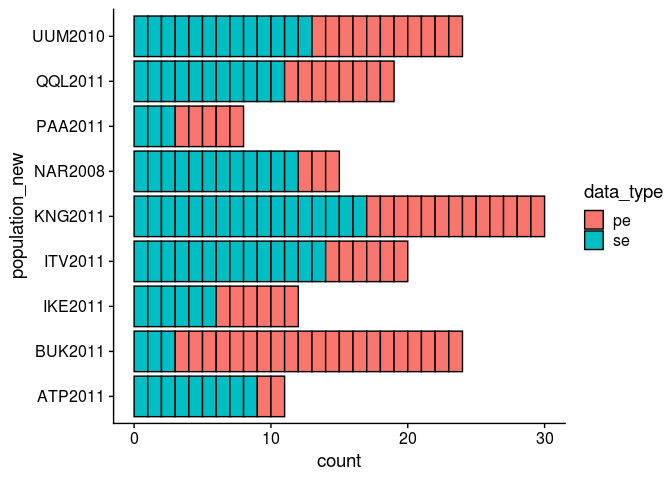
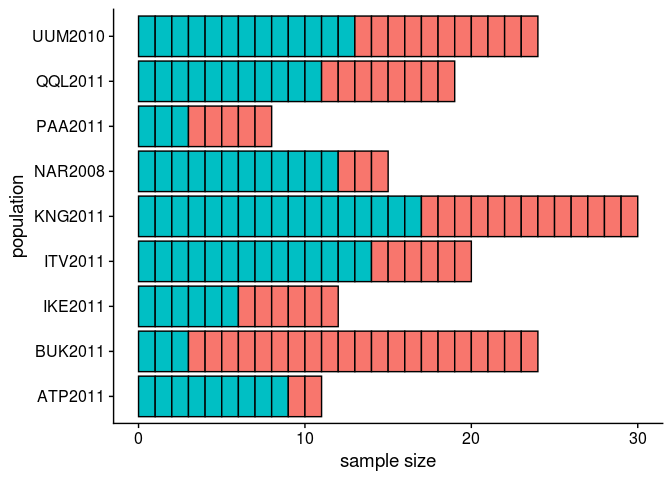
revised sample size and coverage figure

diff --git a/markdown/pipeline.md b/markdown/pipeline.md
@@ -51,12 +51,16 @@ fastq_list_pe <- filter(sample_table_unmerged, lane_number == 7)$prefix
 fastq_list_se <- filter(sample_table_unmerged, lane_number != 7)$prefix
 
 ## Sample distribution
-sample_table_merged %>%
+sample_size_plot <- sample_table_merged %>%
   mutate(sample_id_corrected=fct_reorder(sample_id_corrected, data_type)) %>%
   ggplot(aes(x=population_new, fill=data_type, group=sample_id_corrected)) +
   geom_bar(color="black") +
+  xlab("population")+
+  ylab("sample size") +
   theme_cowplot() +
-  coord_flip()
+  coord_flip() +
+  theme(legend.position = "none")
+sample_size_plot
 ```
 
 ![](pipeline_files/figure-gfm/unnamed-chunk-2-1.png)<!-- -->
@@ -65,14 +69,18 @@ sample_table_merged %>%
 ## Number of bases
 base_count <- read_tsv("../sample_lists/count_merged_old.tsv") %>%
   dplyr::select(sample_id_corrected, final_mapped_bases)
-sample_table_merged %>%
+coverage_plot <- sample_table_merged %>%
   left_join(base_count) %>%
   arrange(data_type, desc(final_mapped_bases)) %>%
   mutate(sample_id_corrected=as_factor(sample_id_corrected)) %>%
-  ggplot(aes(x=population_new, y=final_mapped_bases, fill=data_type, group=sample_id_corrected)) +
+  ggplot(aes(x=population_new, y=final_mapped_bases/0.67/10^9, fill=data_type, group=sample_id_corrected)) +
   geom_col(color="black") +
+  scale_fill_discrete(labels=c("NextSeq-150PE", "HiSeq-125PE")) +
+  labs(x="population", y="coverage", fill="batch")+
+  ylab("coverage") +
   theme_cowplot() +
   coord_flip()
+coverage_plot
 ```
 
 ![](pipeline_files/figure-gfm/unnamed-chunk-2-2.png)<!-- -->
@@ -99,6 +107,12 @@ sample_table_merged %>%
     ##   <chr>           <int>                  <dbl>
     ## 1 pe                 75                  0.299
     ## 2 se                 88                  0.788
+
+``` r
+cowplot::plot_grid(sample_size_plot, coverage_plot, nrow = 1, rel_widths = c(1, 1.2))
+```
+
+![](pipeline_files/figure-gfm/unnamed-chunk-3-1.png)<!-- -->
 
 ``` r
 # Write the objects created above
